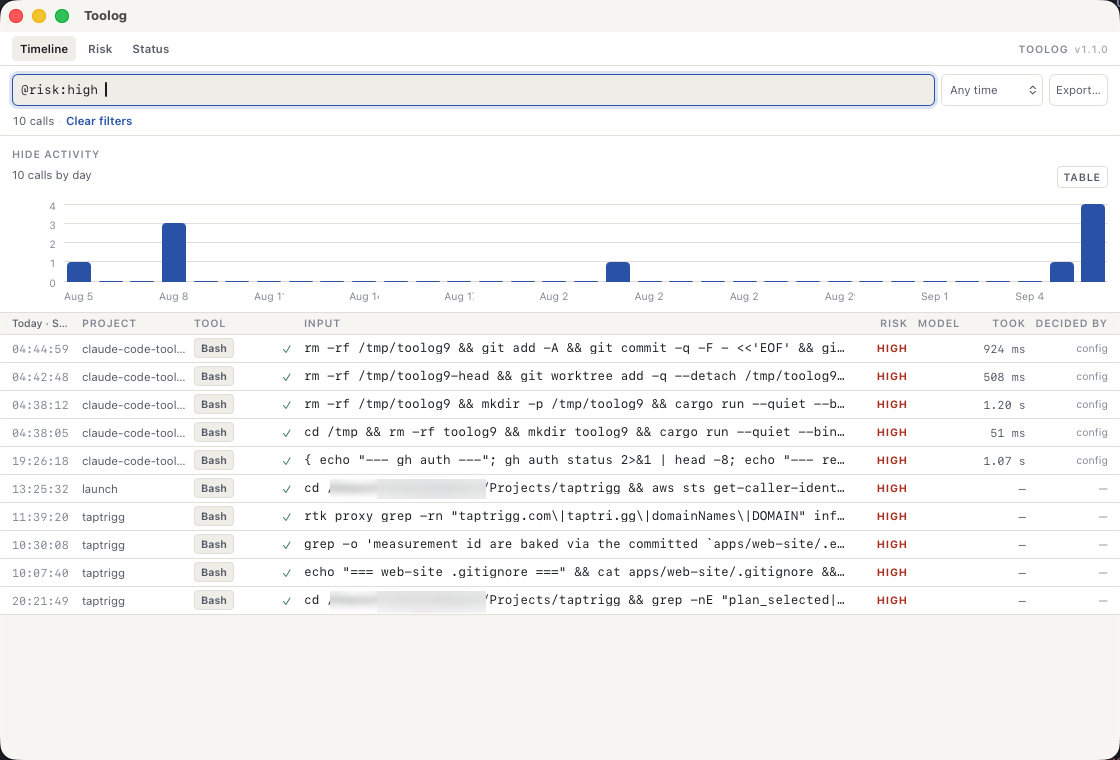
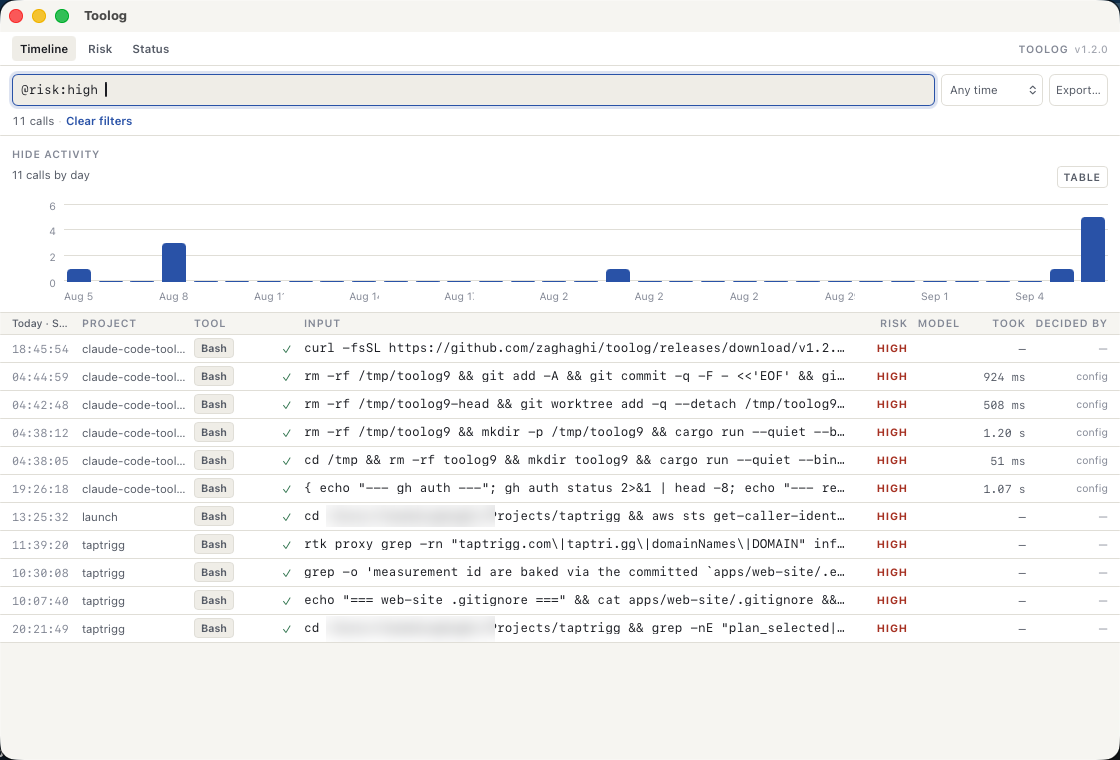
A readme about the program, not about how it got here
The top of the file had become a changelog. Thirty lines of blockquote said
what v1.2 answered, then what v1.1 had changed, then which phase declined the
update check and which one cut the Linux build — before the first sentence
saying what the program is. The limitations read the same way: every entry
carried the phase that discovered it. All of it is true and none of it is what
someone arriving at the repository is trying to find out, and every word of it
is already in docs/README.md, which is where a history belongs.

So the history goes and the claims stay. The loopback guarantee keeps its two
tests, the two lanes keep the diagram and the tool_use_id join, and each
limitation keeps the ADR it rests on — it just no longer says when it was
decided. The one piece of the blockquote that was the program rather than its
history is the local model, and it is now a subsection of How it works.
14.1K to 10.6K, and the first thing on the page is what toolog does.

The four screenshots are retaken against 1.2.0. The old ones were shot during
Phase 13 and still read v1.1.0 in the app bar, which is the version the reader
would have compared against the one they installed. The timeline is scrolled
twenty rows: at the top of the list today's calls are all low-scoring greps,
and a caption about two verdict columns illustrated by two empty columns is
worse than no screenshot.

The home directory is blurred by the method the last set used — Vision is asked
[…]

diff --git a/README.md b/README.md
@@ -1,35 +1,7 @@
 # Toolog
 
-> **Status: v1.2 — thirteen phases done.** The timeline is a virtualized list over every tool
-> call, filtered and searched from one `@key:value` box, with an activity histogram you can drag a
-> time range out of, diffs for every `Edit`, a view that lives in the URL, and export to JSON, CSV
-> or Markdown. The risk review runs rules written as data, shows every rule and what it looks for
-> whether or not it matched, drills through to the calls behind each finding, and can notify on
-> refusals and high-severity rule hits, off by default. And the record earns its name: `toolog
-> verify` says what it is missing and when nothing was watching, `toolog verify --chain` shows it
-> has not been altered, secrets are stripped from everything the views show, and `toolog purge`
-> bounds the store without deleting anything you have not seen listed first. It ships as one signed,
-> notarized universal artifact, and removes itself as carefully as it installs: `toolog uninstall`
-> puts `~/.claude/settings.json` back byte for byte and keeps your history unless you say otherwise.
-> See [docs/](docs/README.md).
->
-> **v1.2 answers what the rules were not saying.** Twelve rules find what someone thought to write a
-> rule for, and **77% of the owner's store was Bash commands no rule had ever matched** — reported as
-> nothing, which reads as *these are fine* and means *these were not examined*. A local model now
-> reads them and says what each was doing, on this machine, with **no network capability added**:
-> you bring the `.gguf`, and the release asserts the shipped binary links no `libcurl`
-> ([ADR-0013](docs/adr/0013-a-verdict-is-stored-not-recomputed.md)). It is advisory throughout —
-> never a rule, never a severity, never a number in the summary. And both verdicts are now visible
-> where a reader actually looks: a severity column and a model-score column in the timeline, never
-> the same column, and both spelled out in the detail pane.
->
-> **v1.1 is what living with v1.0 changed.** Four views turned out to be two too many: the usage
-> analytics and the live tail are gone, and toolog now captures cost and reports none of it
-> ([ADR-0010](docs/adr/0010-no-cost-reporting.md)). Seven filter dropdowns became one query box. And
-> the risk review went from 2.3 seconds to 95 ms, with a summary whose columns add up to it
-> ([ADR-0011](docs/adr/0011-memoize-the-risk-review.md)).
-
-A local audit trail for Claude Code tool calls.
+**A local audit trail for Claude Code tool calls.** macOS, one signed app, nothing leaves the
+machine.
 
 Claude Code runs tools on your machine — shell commands, file edits, network fetches. Today there is
 no way to answer *"what did the agent actually do, when, in which repo, and who approved it?"*
@@ -47,30 +19,24 @@ itself.
 | **`@risk:high`** — what a rule flagged, and which rule, on hover. | **`@model-risk:>=4`** — what the local model scored 4 or 5, with its one-line reading of each on hover. |
 
 *Home directory blurred. The two columns are never the same column: a rule's severity is
-deterministic, a model's score is not, and [ADR-0013](docs/adr/0013-a-verdict-is-stored-not-recomputed.md)
-is why a reader has to be able to tell which produced a number at a glance.*
+deterministic, a model's score is not.*
 
 ## Nothing leaves your machine
 
 The OTLP receiver binds `127.0.0.1` only. There is no analytics, no crash reporting, no remote
-config, no account.
+config, no account, and no update check — `brew upgrade --cask toolog` is the update path instead.
 
 **A CI test runs a full ingest and every query the window issues, then asks the operating system
 which sockets the process holds** — any address that is not loopback fails the build. A second test
 proves that check can fail, by opening a socket pointed off the machine and asserting the census
 sees it. The guarantee is a build failure when broken, not a promise in a readme.
 
-**There is no exception.** ADR-0008 had reserved one — an opt-in update check — and Phase 8
-declined to take it: an updater compiles an HTTP client into the binary whether its switch is on
-or off, which would demote a compile-time guarantee to a runtime flag. `brew upgrade --cask
-toolog` is the update path instead, and the updater plugin is named in the same test that rejects
-`reqwest`. See [ADR-0008](docs/adr/0008-local-only-zero-egress.md) and [PRIVACY.md](PRIVACY.md).
-
 **Including the model.** Toolog links llama.cpp and does not gain a downloader with it: you fetch
 the `.gguf` yourself and point toolog at it. llama.cpp has a `--hf-repo` fetcher of its own that a
-check reading `Cargo.toml` cannot see, so the release additionally asserts `otool -L` on the
-shipped binary lists no `libcurl` and no TLS library. A config option is not a guarantee; the
-binary is.
+check reading `Cargo.toml` cannot see, so the release additionally asserts `otool -L` on the shipped
+binary lists no `libcurl` and no TLS library. A config option is not a guarantee; the binary is.
+
+See [ADR-0008](docs/adr/0008-local-only-zero-egress.md) and [PRIVACY.md](PRIVACY.md).
 
 ## How it works
 
@@ -89,22 +55,23 @@ Two ingestion lanes, because neither is complete alone:
 ```
 
 **Transcripts** carry the untruncated content — the full shell command, the full file diff. OTEL
-truncates tool inputs at 512 characters, which is not evidence.
-
-**OTEL** carries what transcripts never record: **who approved or refused each call, and under
-which rule**, and how long it took. A refused call does appear in the transcript — but only as a
-sentence inside a result body, with nothing to query. `decision` and `decision_source` exist in one
-place.
+truncates tool inputs at 512 characters, which is not evidence. **OTEL** carries what transcripts
+never record: **who approved or refused each call, and under which rule**, and how long it took.
 
 The two are joined exactly on `tool_use_id`, and where they disagree, that is a finding rather than
 an inconsistency to paper over: a call only the transcript saw is a gap in collection, and a call
 only OTEL saw had no transcript body written. This is how the tool demonstrates its own completeness
-instead of asserting it.
+instead of asserting it. Neither lane puts any code on Claude Code's critical path — one is a
+read-only file watch, the other a fire-and-forget export whose failure costs nothing.
+See [ADR-0002](docs/adr/0002-dual-ingestion-transcripts-and-otel.md).
 
-Neither lane puts any code on Claude Code's critical path. One is a read-only file watch; the other
-is a fire-and-forget network export whose failure costs nothing.
-
-See [ADR-0002](docs/adr/0002-dual-ingestion-transcripts-and-otel.md) for the full reasoning.
+**A second opinion, optional and advisory.** Twelve rules find what someone thought to write a rule
+for, and 77% of the owner's store was Bash commands no rule had ever matched — reported as nothing,
+which reads as *these are fine* and means *these were not examined*. Point toolog at a local `.gguf`
+and it reads them and says what each was doing. It is never a rule, never a severity, and never a
+number in the summary — it gets its own column, its own section, and its own block in the detail
+pane. See [ADR-0013](docs/adr/0013-a-verdict-is-stored-not-recomputed.md), and
+[docs/](docs/README.md#phases) for the one command that fetches the model.
 
 ## Install
 
@@ -128,11 +95,6 @@ toolog doctor --fix          # configures Claude Code telemetry, merged, with a 
 toolog backfill              # imports your existing history
 toolog                       # starts the menu-bar app and the receiver
 ```
-
-Measured on the author's machine: a 50-file, 66 MB transcript corpus mounts, copies, configures,
-imports and answers its first query in about **17 seconds** of machine time — 14 s of that is
-`hdiutil` verifying the disk image. The import itself is 2.0 s for 3,729 tool calls across 41
-sessions.
 
 ### Uninstall
 
@@ -182,47 +144,35 @@ your existing telemetry pipeline is not ours to redirect. See
 
 ## Limitations, stated rather than discovered
 
-- **macOS only.** Linux `.AppImage`/`.deb` was a Phase 8 stretch goal and was cut, not
-  attempted. Nothing in the code assumes macOS except the LaunchAgent, so the port is open —
-  it would need a systemd user unit for both the install and the uninstall path.
-- **Decisions and latency exist only for sessions captured live.** They arrive on the OTEL
-  lane, which is not replayable: a session that ran while toolog was not listening has its
-  commands and results, from the transcript, and no decision layer ever. `toolog verify`
-  reports exactly which sessions those are and over what windows, rather than averaging
-  across a gap as if it were not there.
-- **Cost is captured and never shown.** `api_request` records are stored and counted, and
-  nothing in the window or the CLI reports spend or tokens. That is a scope decision, not an
-  omission — see [ADR-0010](docs/adr/0010-no-cost-reporting.md).
-- **Quitting from the menu bar stops capture**, and it is meant to — the LaunchAgent restarts a
-  crash but respects a deliberate exit. Anything Claude Code runs while toolog is quit is
-  recoverable from transcripts by a later `toolog backfill`, minus the decision layer above.
-- **No update notification.** `brew upgrade --cask toolog` covers Homebrew installs; if you
-  downloaded the `.dmg` directly, nothing will tell you a new version exists. That is the
-  cost of shipping an application that makes no network calls, and it was chosen with the
-  cost known — see the addendum to [ADR-0008](docs/adr/0008-local-only-zero-egress.md).
-- **A project directory name cannot always be decoded back to a path.** Claude Code encodes
-  `/` as `-`, so `/a/b/my-app` and `/a/b/my/app` name the same directory. Project attribution
-  therefore comes from `cwd` in the records; only per-project *exclusion* matches on the
-  encoded name, where it is exact.
-- **The second opinion is a 3.1 GB dependency against a 166 MB store, and it is wrong
-  sometimes.** The model analysing the history is nineteen times the size of the history, and
-  it is a 4.6B quantized model: measured on the owner's store it scores a benign `cargo test`
-  at 2 and needed its rubric spelled out before it called a raw-device `dd` dangerous. That is
-  why it is opt-in, advisory, never a rule, and kept visibly apart from the rules everywhere it
-  appears — its own section in the risk view, its own block in the detail pane, and its own column
-  in the timeline beside the one carrying rule severities — and why the one-line intent summary may
-  be the half worth keeping even where the score is not. See
-  [ADR-0013](docs/adr/0013-a-verdict-is-stored-not-recomputed.md).
-- **macOS 11 or later**, since Phase 13: llama.cpp's C++ needs `std::filesystem`. The floor was
-  10.15 through v1.1.
-- **Anyone who can read your disk can read the database.** It is a plain SQLite file, on
-  purpose — that is what lets you check the claims in `PRIVACY.md` without trusting this
-  program. Encryption at rest was evaluated in Phase 7 and declined in favour of FileVault,
-  with the reasoning in ADR-0008.
+- **macOS 11 or later, and macOS only.** Nothing assumes it except the LaunchAgent, so the port is
+  open — it would need a systemd user unit for both the install and the uninstall path.
+- **Decisions and latency exist only for sessions captured live.** They arrive on the OTEL lane,
+  which is not replayable: a session that ran while toolog was not listening has its commands and
+  results, from the transcript, and no decision layer ever. `toolog verify` reports exactly which
+  sessions those are, rather than averaging across a gap as if it were not there.
+- **Cost is captured and never shown.** `api_request` records are stored and counted, and nothing
+  reports spend or tokens. A scope decision, not an omission —
+  [ADR-0010](docs/adr/0010-no-cost-reporting.md).
+- **Quitting from the menu bar stops capture**, and it is meant to. Anything Claude Code runs while
+  toolog is quit is recoverable by a later `toolog backfill`, minus the decision layer above.
+- **No update notification.** If you downloaded the `.dmg` directly, nothing will tell you a new
+  version exists. That is the cost of an application that makes no network calls.
+- **A project directory name cannot always be decoded back to a path.** Claude Code encodes `/` as
+  `-`, so `/a/b/my-app` and `/a/b/my/app` name the same directory. Project attribution therefore
+  comes from `cwd` in the records; only per-project *exclusion* matches on the encoded name.
+- **The second opinion is a 3.1 GB dependency against a 166 MB store, and it is wrong sometimes.**
+  It is a 4.6B quantized model: measured on the owner's store it scores a benign `cargo test` at 2
+  and needed its rubric spelled out before it called a raw-device `dd` dangerous. That is why it is
+  opt-in, advisory, and kept visibly apart from the rules everywhere it appears — and why its
+  one-line intent summary may be the half worth keeping even where the score is not.
+- **Anyone who can read your disk can read the database.** It is a plain SQLite file, on purpose —
+  that is what lets you check the claims in `PRIVACY.md` without trusting this program. Encryption
+  at rest was evaluated and declined in favour of FileVault.
 
 ## Documentation
 
-- [docs/README.md](docs/README.md) — phases, milestones, and the facts the design rests on
+- [docs/README.md](docs/README.md) — the thirteen phases, and the facts the design rests on
 - [docs/adr/](docs/adr/README.md) — thirteen architecture decision records
 - [PRIVACY.md](PRIVACY.md) — what is captured, what is not, and what never leaves
+- [docs/database.md](docs/database.md) — the SQLite file, and what is in it
 - [docs/releasing.md](docs/releasing.md) — how a signed, notarized release is cut
